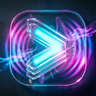
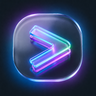
feat: generated in-app BrandMark animation from AppIcon prompt
Replace top-bar frame cycle with AI-generated glass chevron glow frames (cyan/purple/green) and bump to 0.1.8.

diff --git a/frontend/src/App.tsx b/frontend/src/App.tsx
@@ -236,7 +236,7 @@ function parseAgentEvent(...args: unknown[]): AgentEvent | null {
 }
 
 export default function App() {
-  const [info, setInfo] = useState({name: 'NotCursor.ai', version: '0.1.7'})
+  const [info, setInfo] = useState({name: 'NotCursor.ai', version: '0.1.8'})
   const [usage, setUsage] = useState({
     costUsd: 0,
     inputTokens: 0,

diff --git a/frontend/src/BrandMark.tsx b/frontend/src/BrandMark.tsx
@@ -2,7 +2,7 @@ import {useEffect, useState} from 'react'
 
 /** Served from frontend/public/brand (stable for Vite/Wails asset pipeline). */
 const FRAMES = [1, 2, 3, 4, 5, 6].map((n) => `./brand/frame-${n}.png`)
-const FRAME_MS = 300
+const FRAME_MS = 280
 
 type Props = {
   size?: number

diff --git a/app.go b/app.go
@@ -109,7 +109,7 @@ func (a *App) emitTerm(data string) {
 func (a *App) AppInfo() map[string]string {
 	return map[string]string{
 		"name":    "NotCursor.ai",
-		"version": "0.1.7",
+		"version": "0.1.8",
 		"stage":   "1-deepseek-agent",
 	}
 }

diff --git a/README.md b/README.md
@@ -2,7 +2,7 @@
 
 Лёгкий нативный AI-IDE агент (аналог Cursor) на **Wails v2 + Go + React/TypeScript**.
 
-**Версия UI/бинаря:** `0.1.7`  
+**Версия UI/бинаря:** `0.1.8`  
 **Репозиторий:** https://git.papatramp.ru/PapaTramp/nc.ai  
 **Артефакт Windows:** `build/bin/NotCursor.exe`
 
@@ -18,7 +18,7 @@
 - Размер релиза не жёстко ограничен (сейчас порядка десятков МБ; по мере функций может расти); macOS **не** кросс-компилируется с Windows (нужен macOS-хост)
 - Бренд-иконка: `build/appicon.png` + multi-size `build/windows/icon.ico` (16…256, для списка в Explorer)
 - Версия продукта в свойствах exe: `wails.json` → `info.productVersion` (сейчас `0.1.7`)
-- Внутри приложения: анимированный mark в топбаре (`BrandMark`, кадры `frontend/public/brand/frame-1…6.png`, 300 мс)
+- Внутри приложения: анимированный mark в топбаре (`BrandMark`, кадры `frontend/public/brand/frame-1…6.png`, ~280 мс) — сгенерированы по AppIcon (glass multi-layer `>`, cyan/purple/green glow)
 - **macOS Dock:** пока агент активен — цикл `frame1…frame6` через `NSApp.applicationIconImage` (`internal/dockicon`, interval 300 мс); по стопу возвращается default. На Windows — no-op stub
 - Пересборка ассетов: `python scripts/build_brand_assets.py`
 
